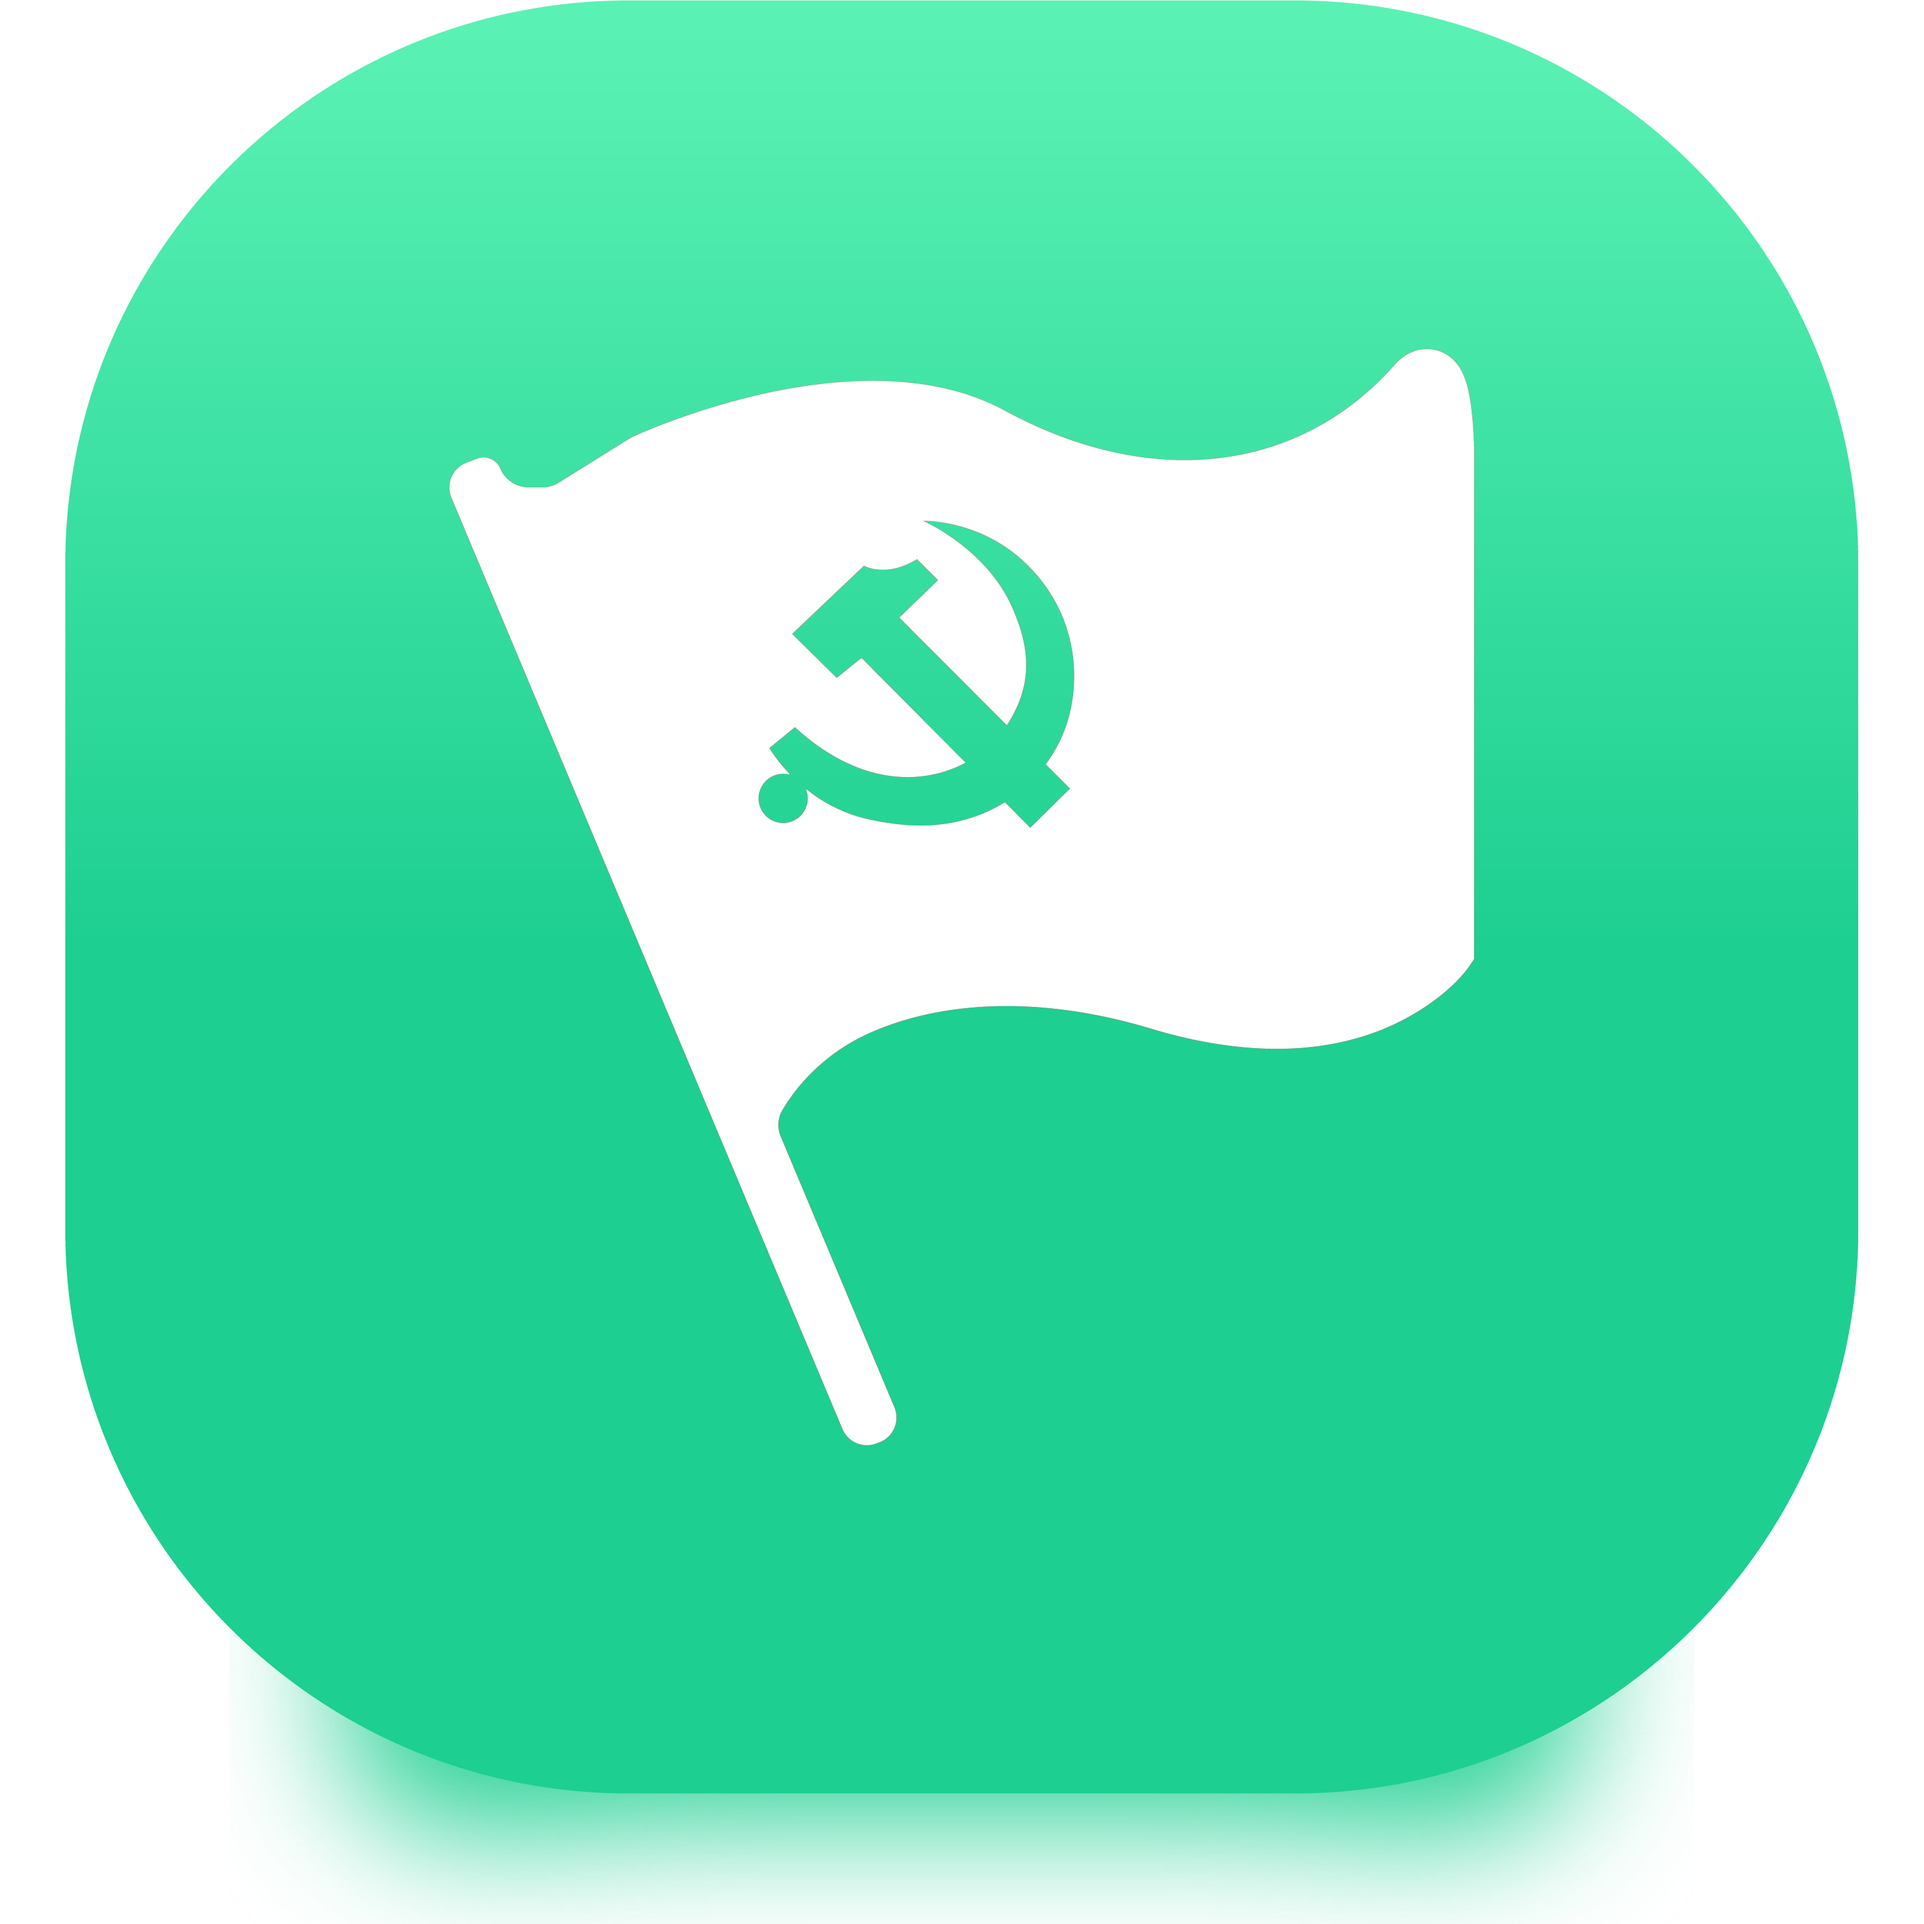
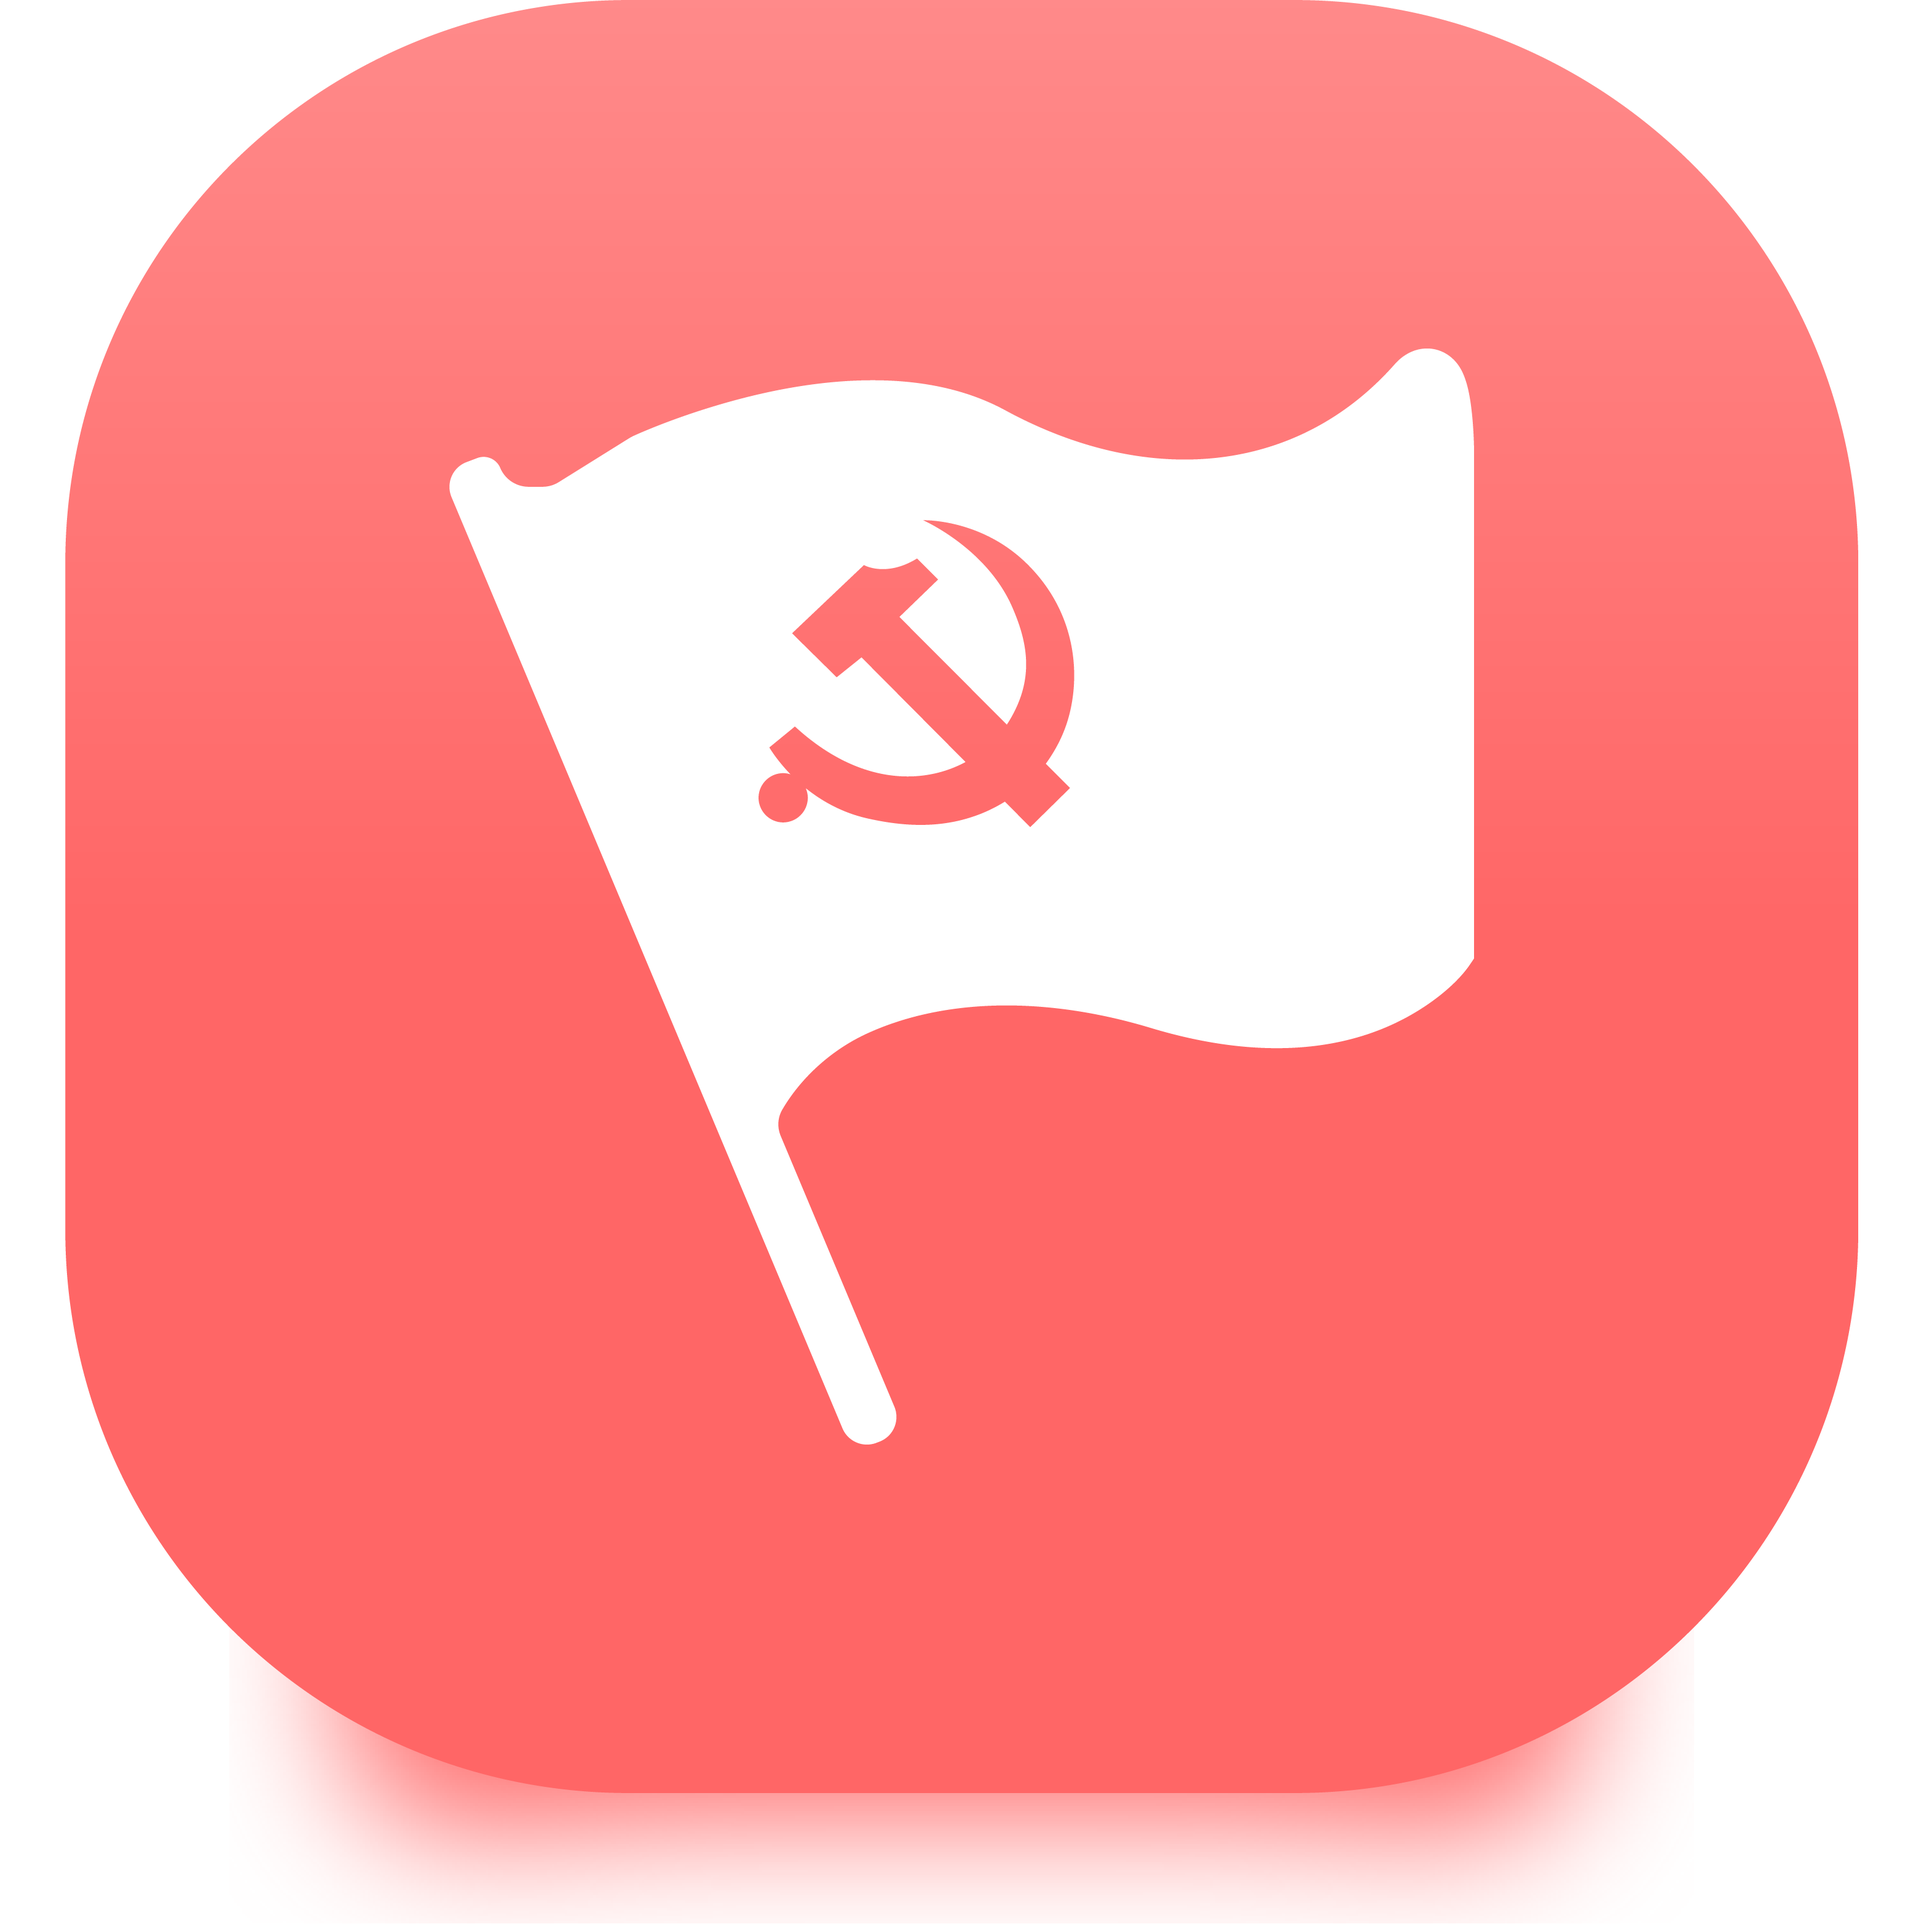
1.jssdk.js 引用协议修改。2.园区党建 图标修改

diff --git a/application/index/view/personal/version.html b/application/index/view/personal/version.html
@@ -3,25 +3,28 @@
 {block name="style"}
 <style>
     .grade1{
-        padding:0 1.2rem;
         font-size: 1.4rem;
         color: #333;
     }
     .grade1>li{
-        border-bottom: 1px dashed #f1f1f1;
     }
     .grade1>li>a{
+        padding:0 1.2rem;
         display: block;
         width:100%;
         line-height: 5rem;
         height:5rem;
+        border-bottom: 1px dashed #f1f1f1;
+
     }
     .grade1>li>a>span:first-child{
         margin-right: 2rem;
     }
     .grade1>li>div{
+        background-color: #F6F6F6;
         overflow: hidden;
         height:0;
+        color: #666;
         -webkit-transition: all 500ms linear;
         -moz-transition: all 500ms linear;
         -ms-transition: all 500ms linear;
@@ -54,6 +57,14 @@
         height:auto;
         padding-top: 4px;
         padding-bottom: 15px;
+        border-bottom: 1px dashed #f1f1f1;
+    }
+    #app a{
+        /*-webkit-tap-highlight-color: transparent;*/
+        -webkit-tap-highlight-color:rgba(0,0,0,0)!important;
+        -webkit-user-select: none;
+        -moz-user-select: none;
+        -webkit-appearance:none;
     }
 </style>
 {/block}

diff --git a/application/index/view/partymanage/managedetail.html b/application/index/view/partymanage/managedetail.html
@@ -94,7 +94,7 @@
 {block name="script"}
 <script src="/static/swiper/swiper.min.js"></script>
 <script src="/static/viewer/viewer.min.js"></script>
-<script src="http://res.wx.qq.com/open/js/jweixin-1.2.0.js"></script>
+<script src="//res.wx.qq.com/open/js/jweixin-1.2.0.js"></script>
 <script>
     var info = {$info};
     console.log(info);

diff --git a/application/index/view/partymanage/workdiary.html b/application/index/view/partymanage/workdiary.html
@@ -1,6 +1,7 @@
 {extend name="public/common"}
 
 {block name="style"}
+<title>工作日志</title>
 <style>
     .my-log li{position:relative;box-sizing:content-box;padding:1.7rem 4vw;border-bottom:1px solid #f1f1f1}
     .my-log li>div{display:-webkit-flex;display:flex}
